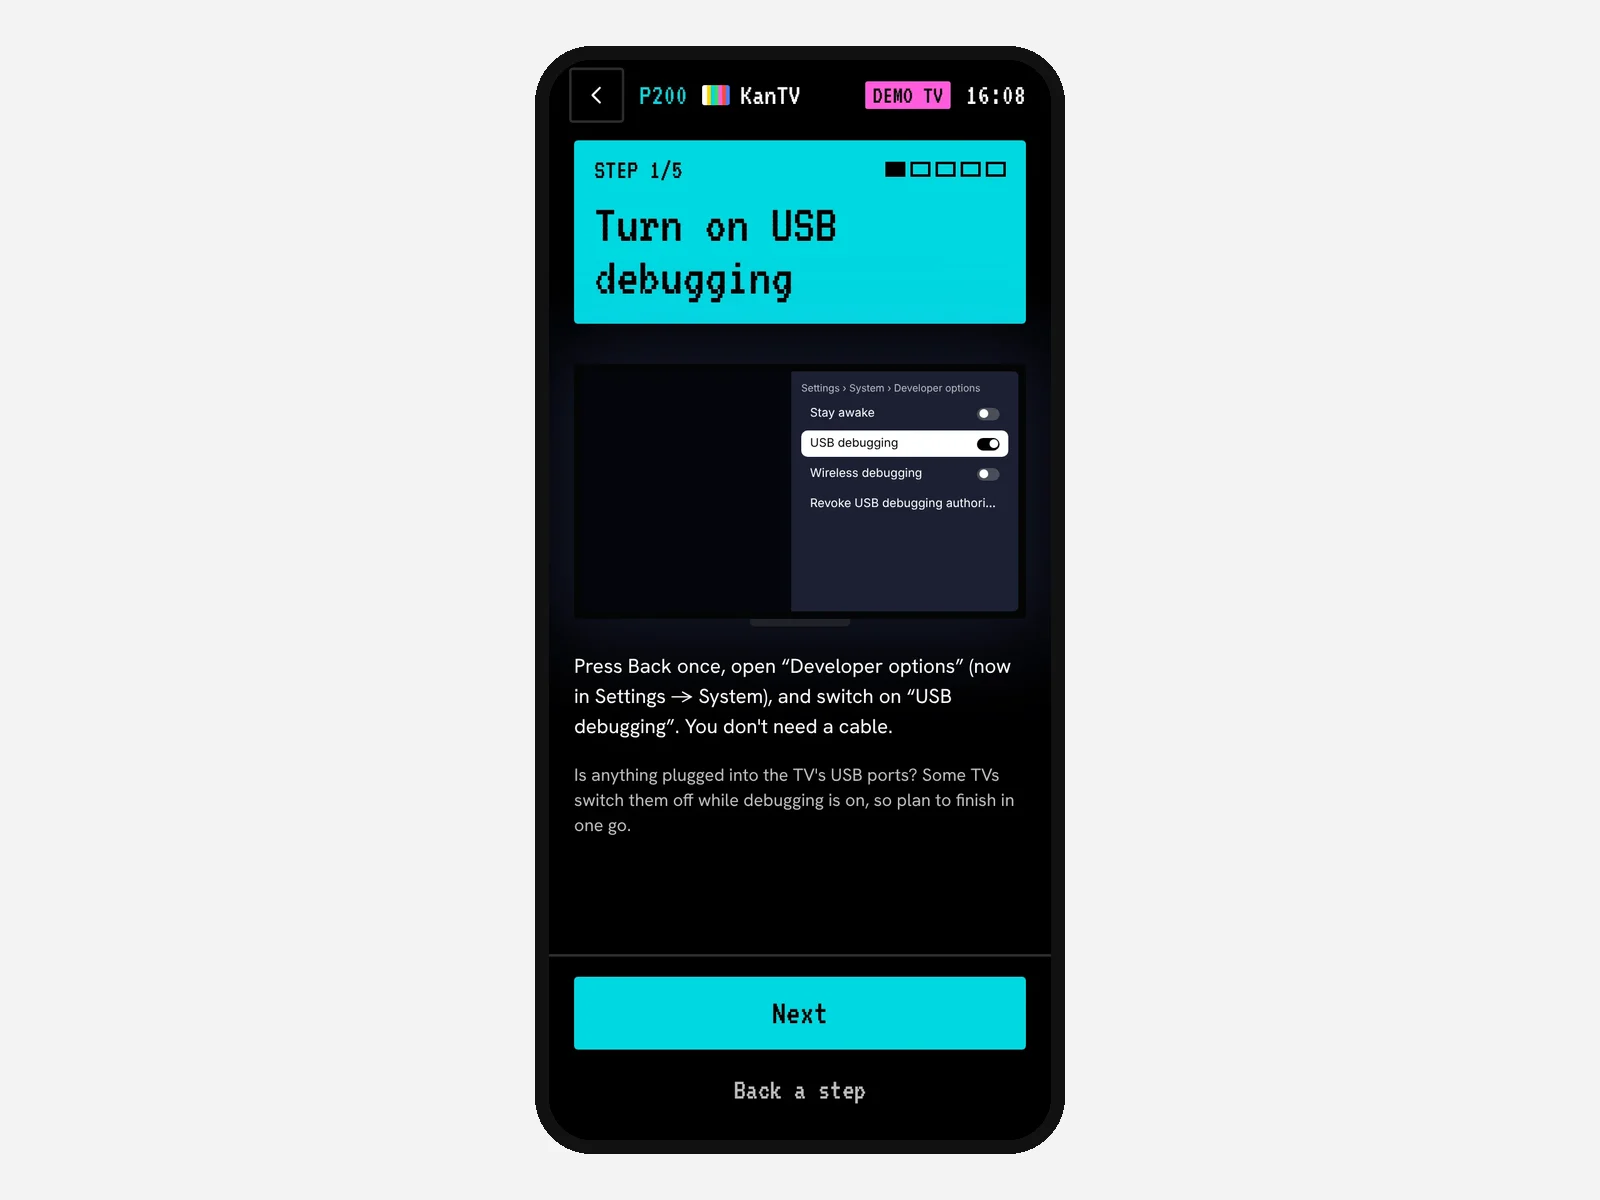
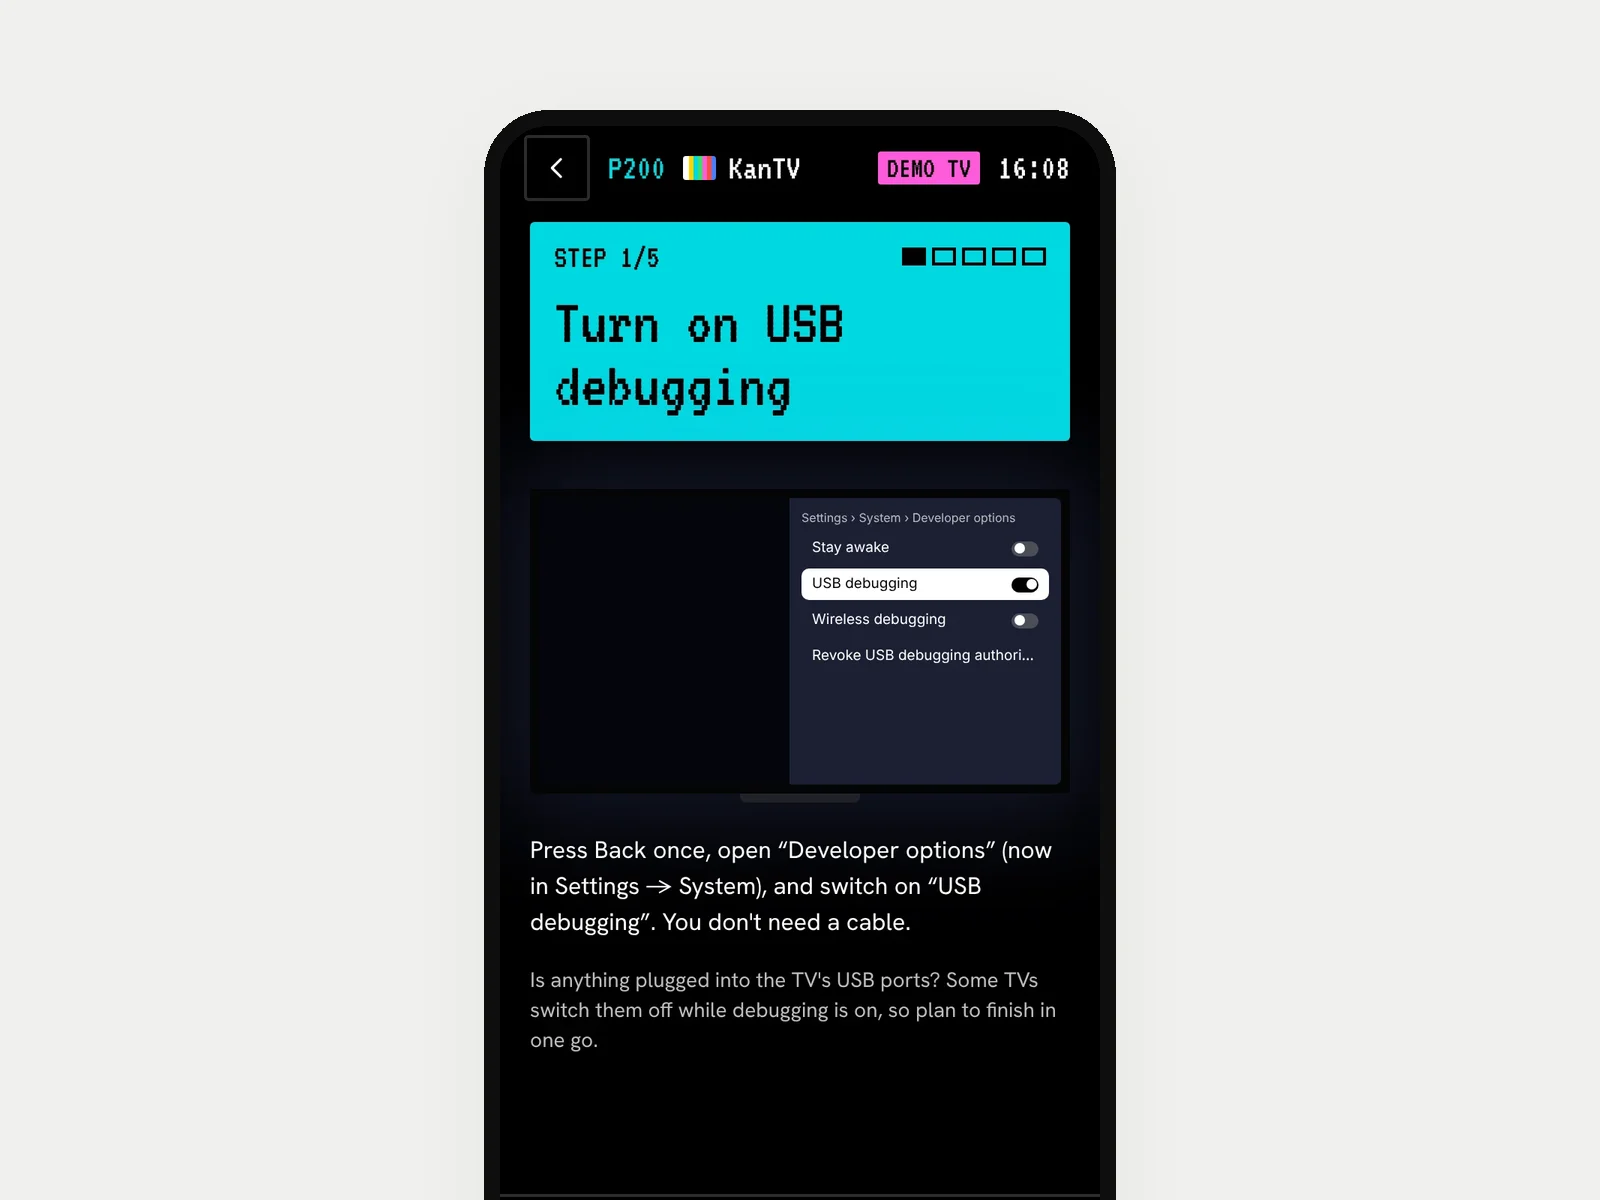
Website: nicer phone layout and product pictures
The setup pictures show each phone screen large, running off the bottom of
its frame instead of cropped from the middle; the hero TV stands in a dark
room lit by its picture; feature panels are taller; on phones sections
take their content's height (no long empty gaps), plan cards keep their
own height, and the footer no longer repeats the name.

Changed region(s): [[0.2812, 0.0308, 0.7188, 1.0]]

diff --git a/apps/site/index.html b/apps/site/index.html
@@ -72,10 +72,32 @@
   .app > .app__pane + .app__pane { border-top: 0; }
   .app__pane--open { padding: 12px; }
 }
+/* the hero's TV stands in a dark room, lit by its own picture, instead of on the kit's sand ground */
+.hero--centred .hero__window { background: radial-gradient(70% 90% at 50% 30%, #5a2c12 0%, #1d130d 45%, #0d0d0d 100%); }
+/* setup pictures: the phone runs off the bottom of its frame; never cropped from the top */
+#setup .mo-pc__visual > img { object-fit: cover; object-position: top; background: #f0f0ee; }
+#setup .mo-pc__visuals { background: #f0f0ee; border-radius: var(--r-lg); overflow: hidden; }
+@media (max-width: 1023px) { main > #setup:not(.is-live) .mo-pc__visual > img { aspect-ratio: 4 / 3; max-height: none; } }
+@media (max-width: 639px) { main > #setup:not(.is-live) { height: auto; min-height: 0; } }
+/* on a phone each section is as tall as what it holds: whole fixed screens left long empty gaps there */
+@media (max-width: 639px) {
+  main > section.section:not(.hero), main > section.section.g2 { height: auto !important; min-height: 0 !important; padding-top: var(--s-8); padding-bottom: var(--s-6); }
+  #features .card:nth-child(2) .panel { --p-h: 260px; }
+  main > section.section.g2 > .wrap { display: block; }
+  main > section.section.g2 > .wrap > .group + .grid { margin-top: var(--s-6); }
+  #pricing .grid.fill { align-content: start; }
+  /* with no fixed screen, a .fill block takes its own height */
+  main > section.section > .wrap > .fill { flex: none; }
+  #cleanup .app.fill { height: 300px; }
+  footer.closing { height: auto !important; min-height: 0 !important; }
+  footer.closing .close__word { margin-top: var(--s-8); }
+}
+/* plan cards keep their own height on a phone */
+@media (max-width: 639px) { #pricing .grid.fill { align-items: start; } #pricing .card--plan { height: auto; } #pricing .faq-shot { display: none; } }
 /* phone screens of the KanTV app, rising out of the bottom of their panel */
 .phone-shot { display: block; width: 100%; height: auto; border-radius: 22px; border: 6px solid #111; }
-#features .panel { --p-h: 336px; background: var(--g-alt); }
-@media (max-width: 639px) { #features .panel { --p-h: 220px; } }
+#features .panel { --p-h: 400px; background: #f0f0ee; }
+@media (max-width: 639px) { #features .panel { --p-h: 340px; } }
 .faq-tv { margin: 0; aspect-ratio: 1256 / 480; border-radius: var(--r-lg); overflow: hidden; background: #f3f3f3; }
 .faq-tv .frame__img { width: 100%; height: 100%; object-fit: cover; object-position: top; }
 .faq-shot { margin: 0; aspect-ratio: 4 / 3; border-radius: var(--r-lg); overflow: hidden; }
@@ -222,7 +244,7 @@ main #setup.is-live > .mo-pc__grid { align-content: start; padding-top: var(--pa
           <article class="card card--row card--open span-6">
             <h3>AI designer for your home screen</h3>
             <p>Write “a cosy cabin in the woods” and AI picks the colours, the clock and the apps up front.</p>
-            <div class="panel"><div class="stage stage--fade-b"><div class="at-rise fit" style="--fit-max:280px;--ax:max(24px, 50% - 140px);--ay:40px;--ay-sm:20px"><img class="phone-shot" src="img/app-design.webp" srcset="img/app-design-600.webp 600w, img/app-design.webp 800w" sizes="280px" loading="lazy" decoding="async" alt="The KanTV app showing a design called Ember Lounge on a TV" width="800" height="1720"></div></div></div>
+            <div class="panel"><div class="stage stage--fade-b"><div class="at-rise fit" style="--fit-max:300px;--ax:max(24px, 50% - 150px);--ay:40px;--ay-sm:24px"><img class="phone-shot" src="img/app-design.webp" srcset="img/app-design-600.webp 600w, img/app-design.webp 800w" sizes="280px" loading="lazy" decoding="async" alt="The KanTV app showing a design called Ember Lounge on a TV" width="800" height="1720"></div></div></div>
           </article>
           <article class="card card--row card--open span-6">
             <h3>KanTV home screen on your TV</h3>
@@ -235,12 +257,12 @@ main #setup.is-live > .mo-pc__grid { align-content: start; padding-top: var(--pa
         <article class="card card--row card--open span-6">
           <h3>KanTV remote on your phone</h3>
           <p>Arrows, OK, volume and a keyboard for search and passwords, over your home Wi-Fi.</p>
-          <div class="panel"><div class="stage stage--fade-b"><div class="at-rise fit" style="--fit-max:280px;--ax:max(24px, 50% - 140px);--ay:40px;--ay-sm:20px"><img class="phone-shot" src="img/app-remote.webp" srcset="img/app-remote-600.webp 600w, img/app-remote.webp 800w" sizes="280px" loading="lazy" decoding="async" alt="The KanTV remote with arrow keys, OK, Back, Home, mute and volume" width="800" height="1720"></div></div></div>
+          <div class="panel"><div class="stage stage--fade-b"><div class="at-rise fit" style="--fit-max:300px;--ax:max(24px, 50% - 150px);--ay:40px;--ay-sm:24px"><img class="phone-shot" src="img/app-remote.webp" srcset="img/app-remote-600.webp 600w, img/app-remote.webp 800w" sizes="280px" loading="lazy" decoding="async" alt="The KanTV remote with arrow keys, OK, Back, Home, mute and volume" width="800" height="1720"></div></div></div>
         </article>
         <article class="card card--row card--open span-6">
           <h3>KanTV Restore for your TV</h3>
           <p>Restore turns every app back on and returns the stock home screen. It stays free after the trial.</p>
-          <div class="panel"><div class="stage stage--fade-b"><div class="at-rise fit" style="--fit-max:280px;--ax:max(24px, 50% - 140px);--ay:40px;--ay-sm:20px"><img class="phone-shot" src="img/app-restore.webp" srcset="img/app-restore-600.webp 600w, img/app-restore.webp 800w" sizes="280px" loading="lazy" decoding="async" alt="The KanTV app's Restore screen, ready to turn 16 apps back on" width="800" height="1720"></div></div></div>
+          <div class="panel"><div class="stage stage--fade-b"><div class="at-rise fit" style="--fit-max:300px;--ax:max(24px, 50% - 150px);--ay:40px;--ay-sm:24px"><img class="phone-shot" src="img/app-restore.webp" srcset="img/app-restore-600.webp 600w, img/app-restore.webp 800w" sizes="280px" loading="lazy" decoding="async" alt="The KanTV app's Restore screen, ready to turn 16 apps back on" width="800" height="1720"></div></div></div>
         </article>
       </div>
     </div>
@@ -310,7 +332,6 @@ main #setup.is-live > .mo-pc__grid { align-content: start; padding-top: var(--pa
     <div class="closing__links">
       <div class="grid">
         <div class="span-4 stack-4">
-          <a class="nav__logo" href="#top"><span class="mark" data-mark="stack" aria-hidden="true"></span>KanTV</a>
           <p class="footer__lede">Your TV without the ads.</p>
         </div>
         <div class="span-2 footer__col"><h3>Product</h3><ul><li><a href="#cleanup">Cleanup</a></li><li><a href="#setup">Setup</a></li></ul></div>
